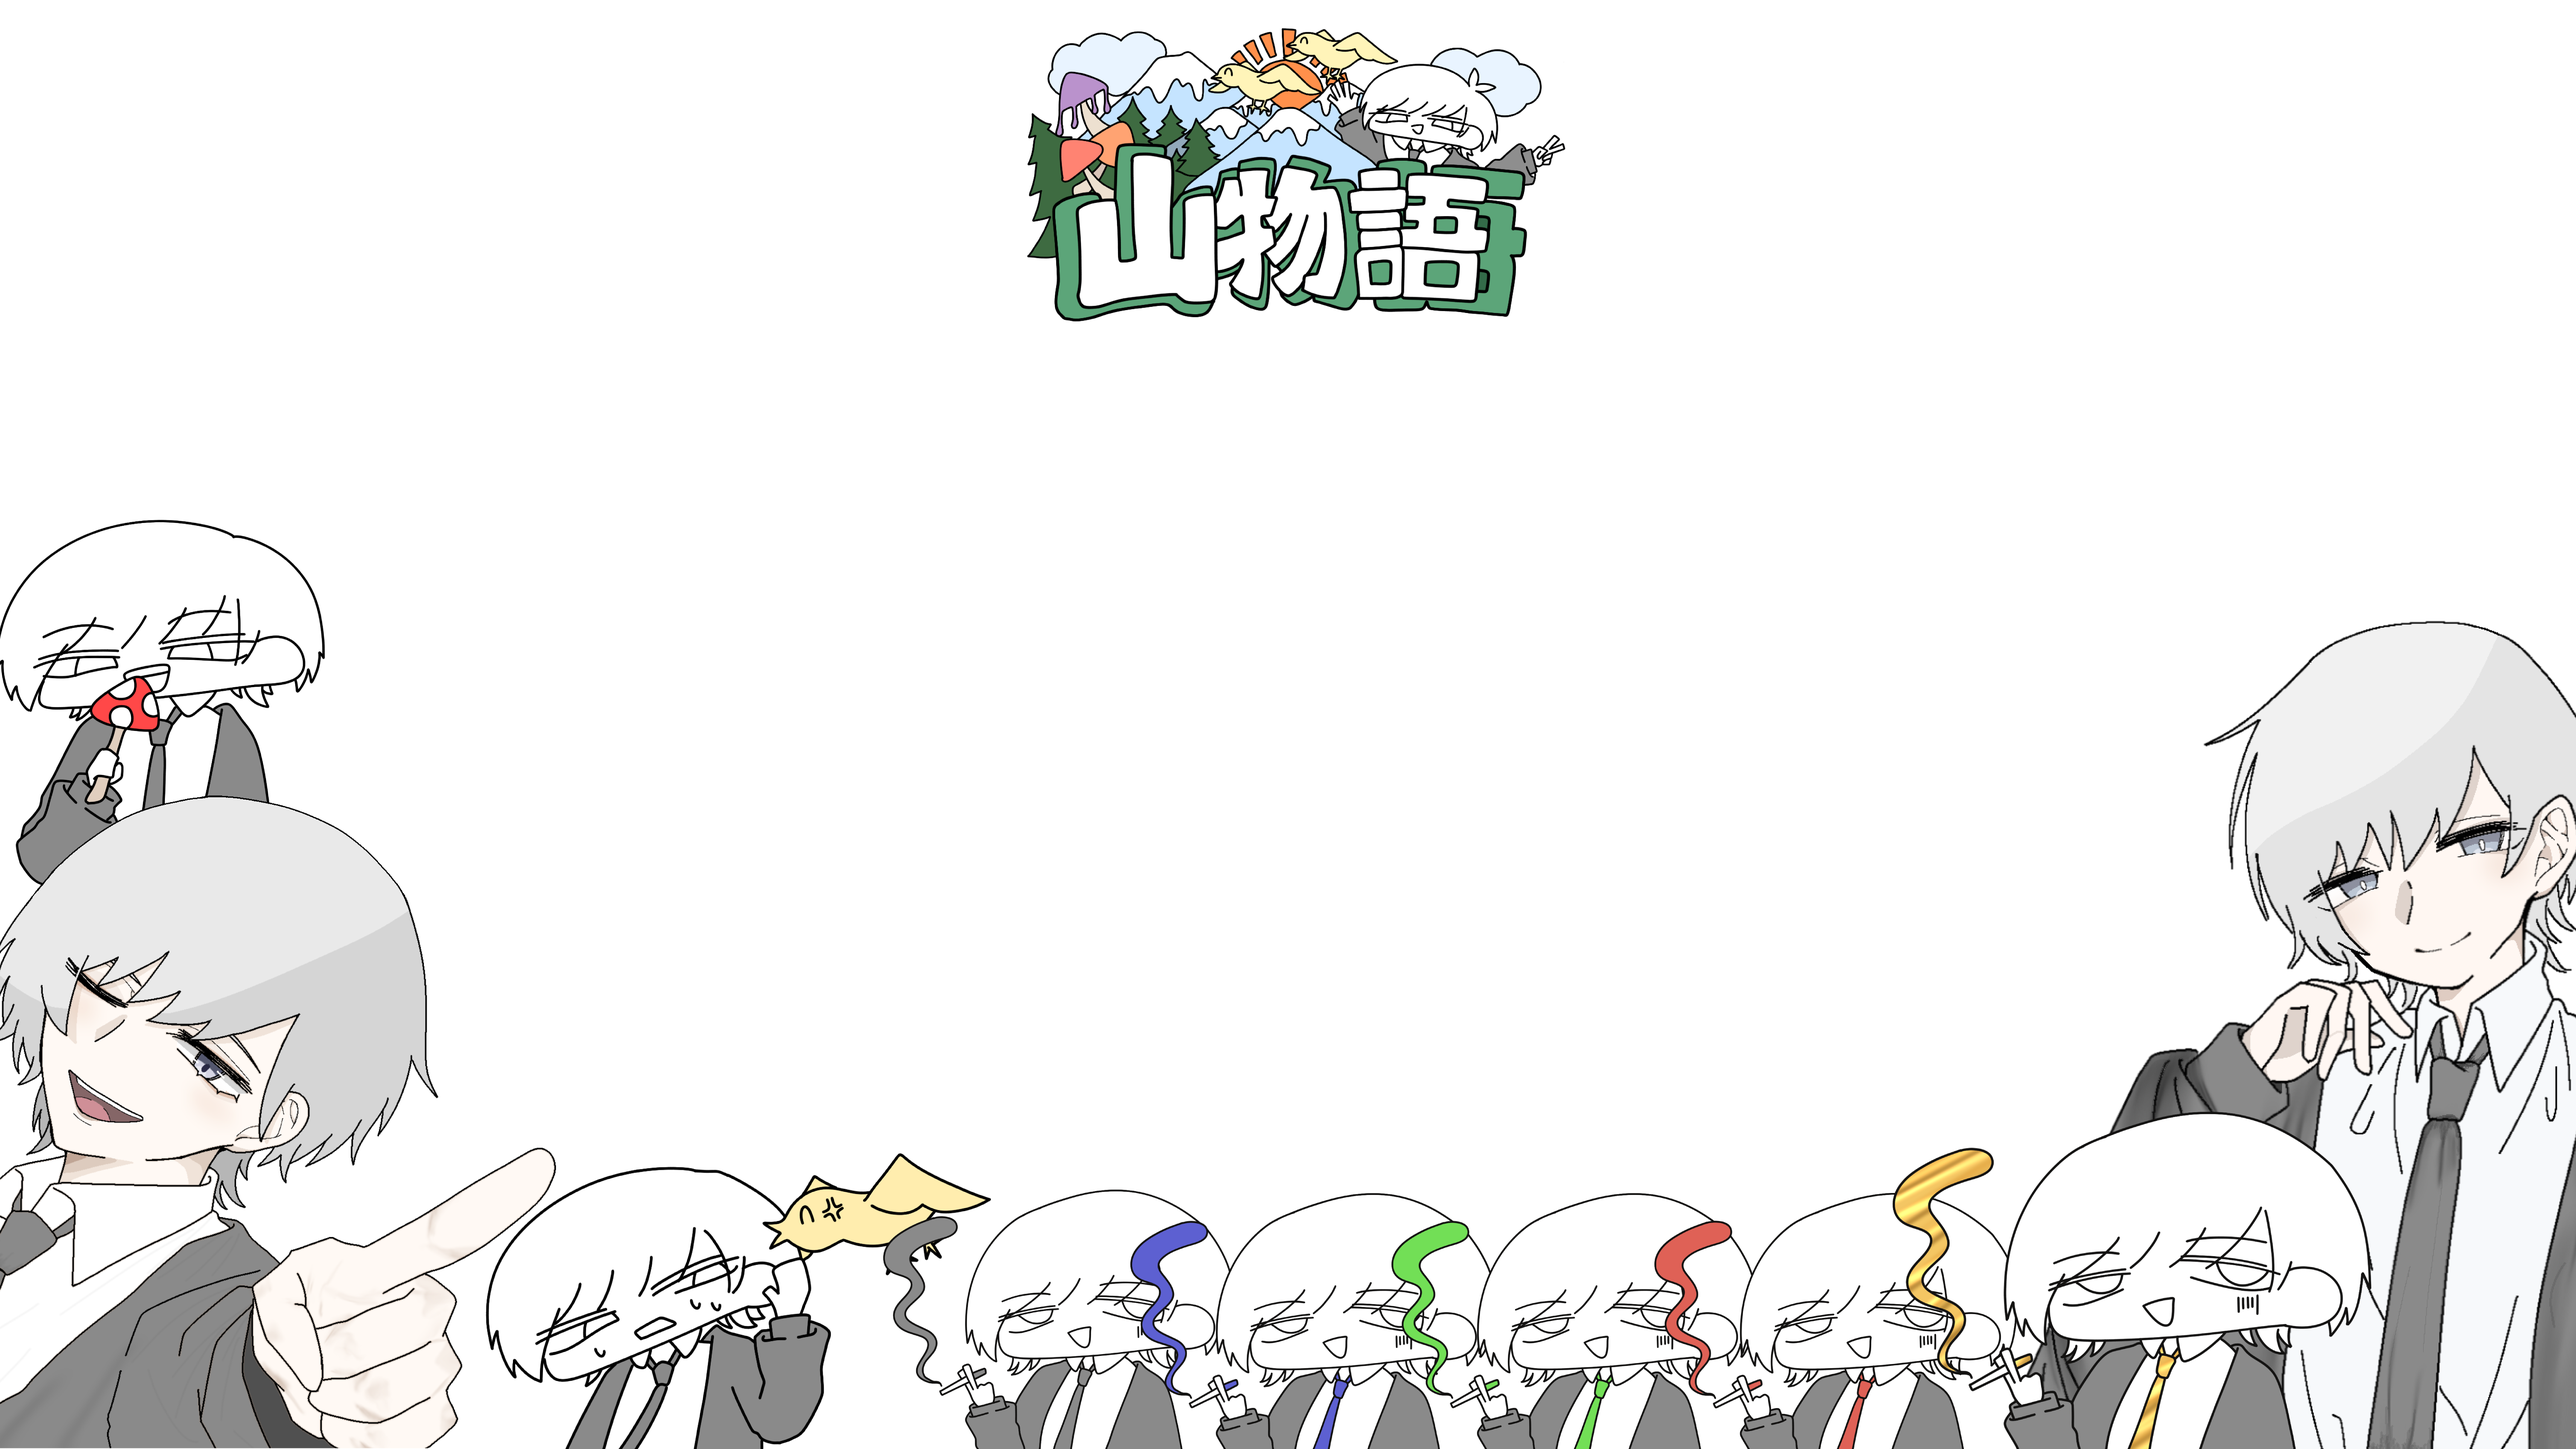
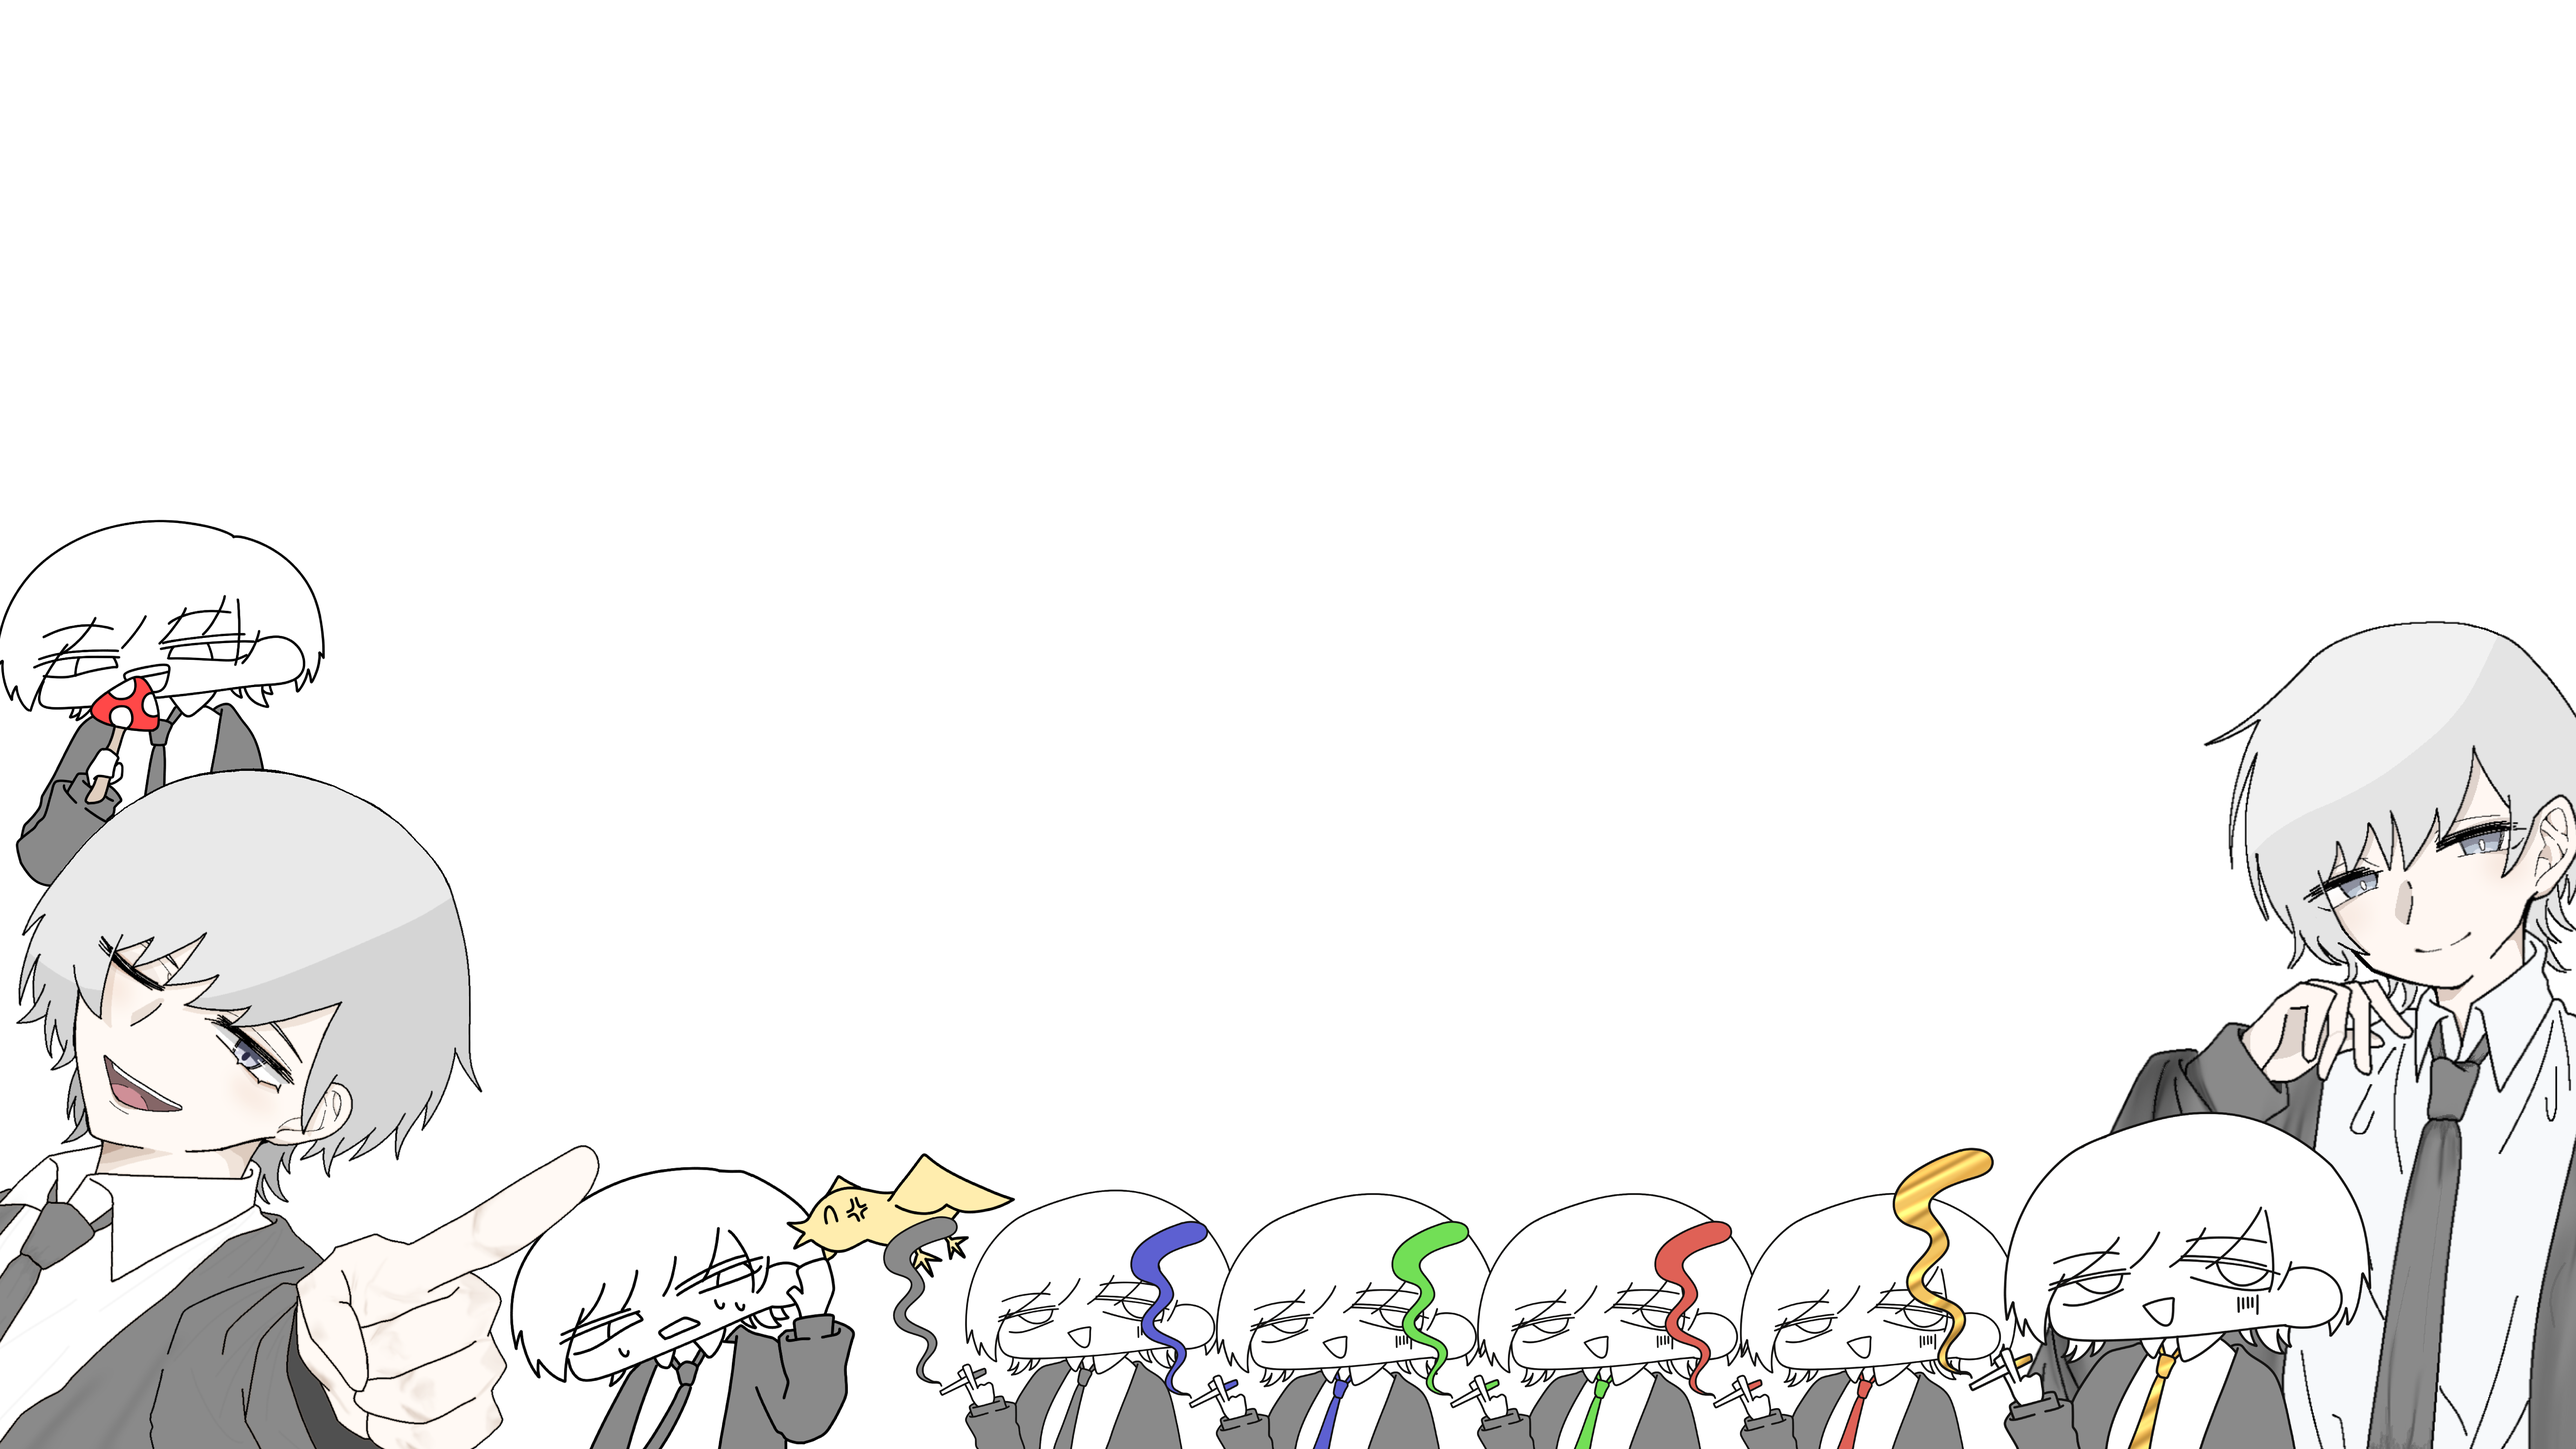
画像追加

Changed region(s): [[0.0, 0.5911, 0.4062, 1.0], [0.375, 0.0, 0.625, 0.2178], [0.0625, 0.5289, 0.125, 0.56]]

diff --git a/css/layout/layouts/l-main.css b/css/layout/layouts/l-main.css
@@ -43,14 +43,17 @@
 }
 
 .l-main__title {
-    width: 300px;
+    position: fixed;
+    top: 0;
+    left: 50%;
+    transform: translateX(-50%);
+    width: 20%;
+    margin: 0;
+    z-index: 121;
 }
 
-.l-main__logo {
-    width: 350px;
-    position: fixed;
-    top: -5%;
-    left: 0;
+.l-main__title img {
+    width: 100%;
 }
 
 .l-main__container {
@@ -58,16 +61,19 @@
     top: 50%;
     left: 50%;
     transform: translate(-50%, -50%);
-    width: 70%;
-    height: 100%;
+    width: 80%;
+    height: 75%;
     display: flex;
     align-items: center;
     justify-content: center;
+    background: #fff;
+    border-radius: 30px;
+    border: 8px solid #000;
 }
 
 .l-main__slot {
     display: flex;
-    width: 100%;
+    width: 80%;
     height: 100%;
     align-items: center;
     justify-content: space-around;
@@ -103,9 +109,12 @@
 }
 
 .l-main__slot-cell:not(:nth-child(2)) .l-main__slot-number-image {
-    width: 80%;
-    height: 80%;
+    width: 65%;
+    height: 65%;
     opacity: 0.3;
+}
+.l-main__slot-cell:nth-child(2) .l-main__slot-number-image {
+    scale: 1.6;
 }
 
 .l-main__slot-number-image {

diff --git a/js/script.js b/js/script.js
@@ -6,8 +6,6 @@ const slotReels = document.querySelectorAll('.js-slot-reel');
 const reachPopup = document.querySelector('.js-reach-popup');
 const hitPopup = document.querySelector('.js-hit-popup');
 const REEL_STEP_DURATION_MS = 60;
-const REEL_REST_TRANSLATE_Y = 'translateY(calc((-1 * var(--reel-cell-height)) + var(--reel-peek-height)))';
-const REEL_STEP_TRANSLATE_Y = 'translateY(calc((-2 * var(--reel-cell-height)) + var(--reel-peek-height)))';
 const SPIN_INTERVAL_MS = 80;
 const STOP_CYCLE_INTERVAL_MS = Math.max(0, SPIN_INTERVAL_MS - REEL_STEP_DURATION_MS);
 const STOP_SLOW_CYCLE_INTERVAL_MS = 160;
@@ -43,7 +41,7 @@ const SLOT_NUMBER_IMAGE_NAMES = {
   6: 'six',
   7: 'seven',
   8: 'eight',
-  9: 'five',
+  9: 'nine',
 };
 const PREMIUM_HIT_NUMBER = 7;
 const PREMIUM_HIT_PROBABILITY = 0.1;

diff --git a/index.html b/index.html
@@ -11,6 +11,7 @@
   <body>
     <main class="l-main">
       <img class="l-main__background" src="./img/common/background.png" alt="背景画像">
+      <h1 class="l-main__title"><img src="./img/common/logo.png" alt="山物語"></h1>
       <img class="l-main__bird l-main__bird--left" src="./img/common/bird.png" alt="鳥装飾">
       <img class="l-main__bird l-main__bird--right" src="./img/common/bird.png" alt="鳥装飾">
       <img class="l-main__frontground" src="./img/common/frontground.png" alt="前景画像">

diff --git a/js/audio-controller.js b/js/audio-controller.js
@@ -1,11 +1,11 @@
 const LEVER_ON_AUDIO_EVENT_NAME = 'slot:lever-on';
 const STOP_BUTTON_AUDIO_EVENT_NAME = 'slot:stop-button-pressed';
 const REEL_STOP_AUDIO_EVENT_NAME = 'slot:reel-stop-confirmed';
-const EFFECT_AUDIO_VOLUME = 0.35;
+const EFFECT_AUDIO_VOLUME = 0.3;
 
 const bgmAudio = new Audio('./audio/bgm.mp3');
 bgmAudio.loop = true;
-bgmAudio.volume = 0.5;
+bgmAudio.volume = 0.1;
 
 const leverAudio = new Audio('./audio/lever.mp3');
 const buttonAudio = new Audio('./audio/button.mp3');
